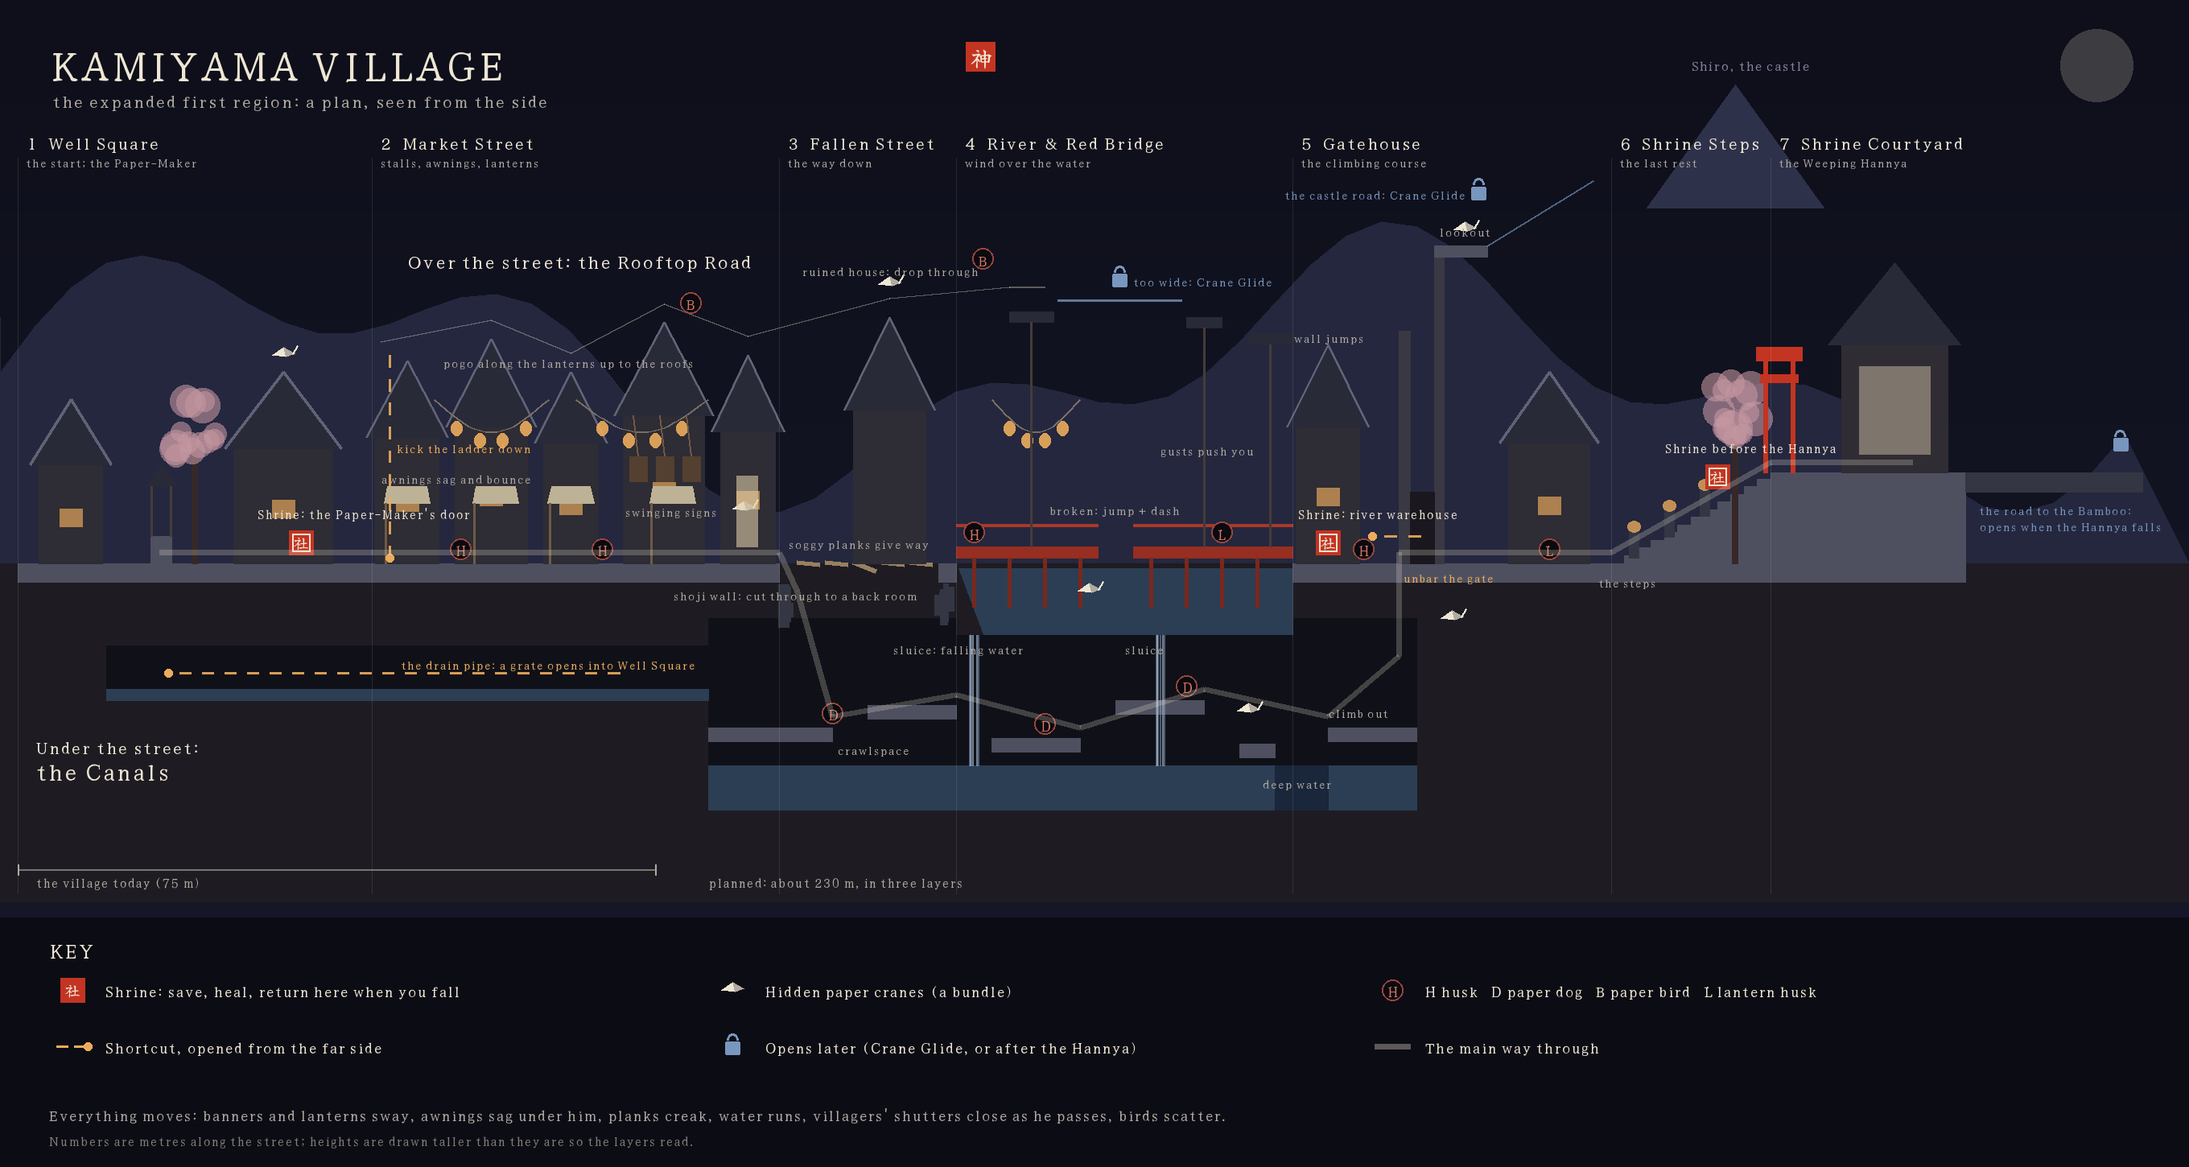
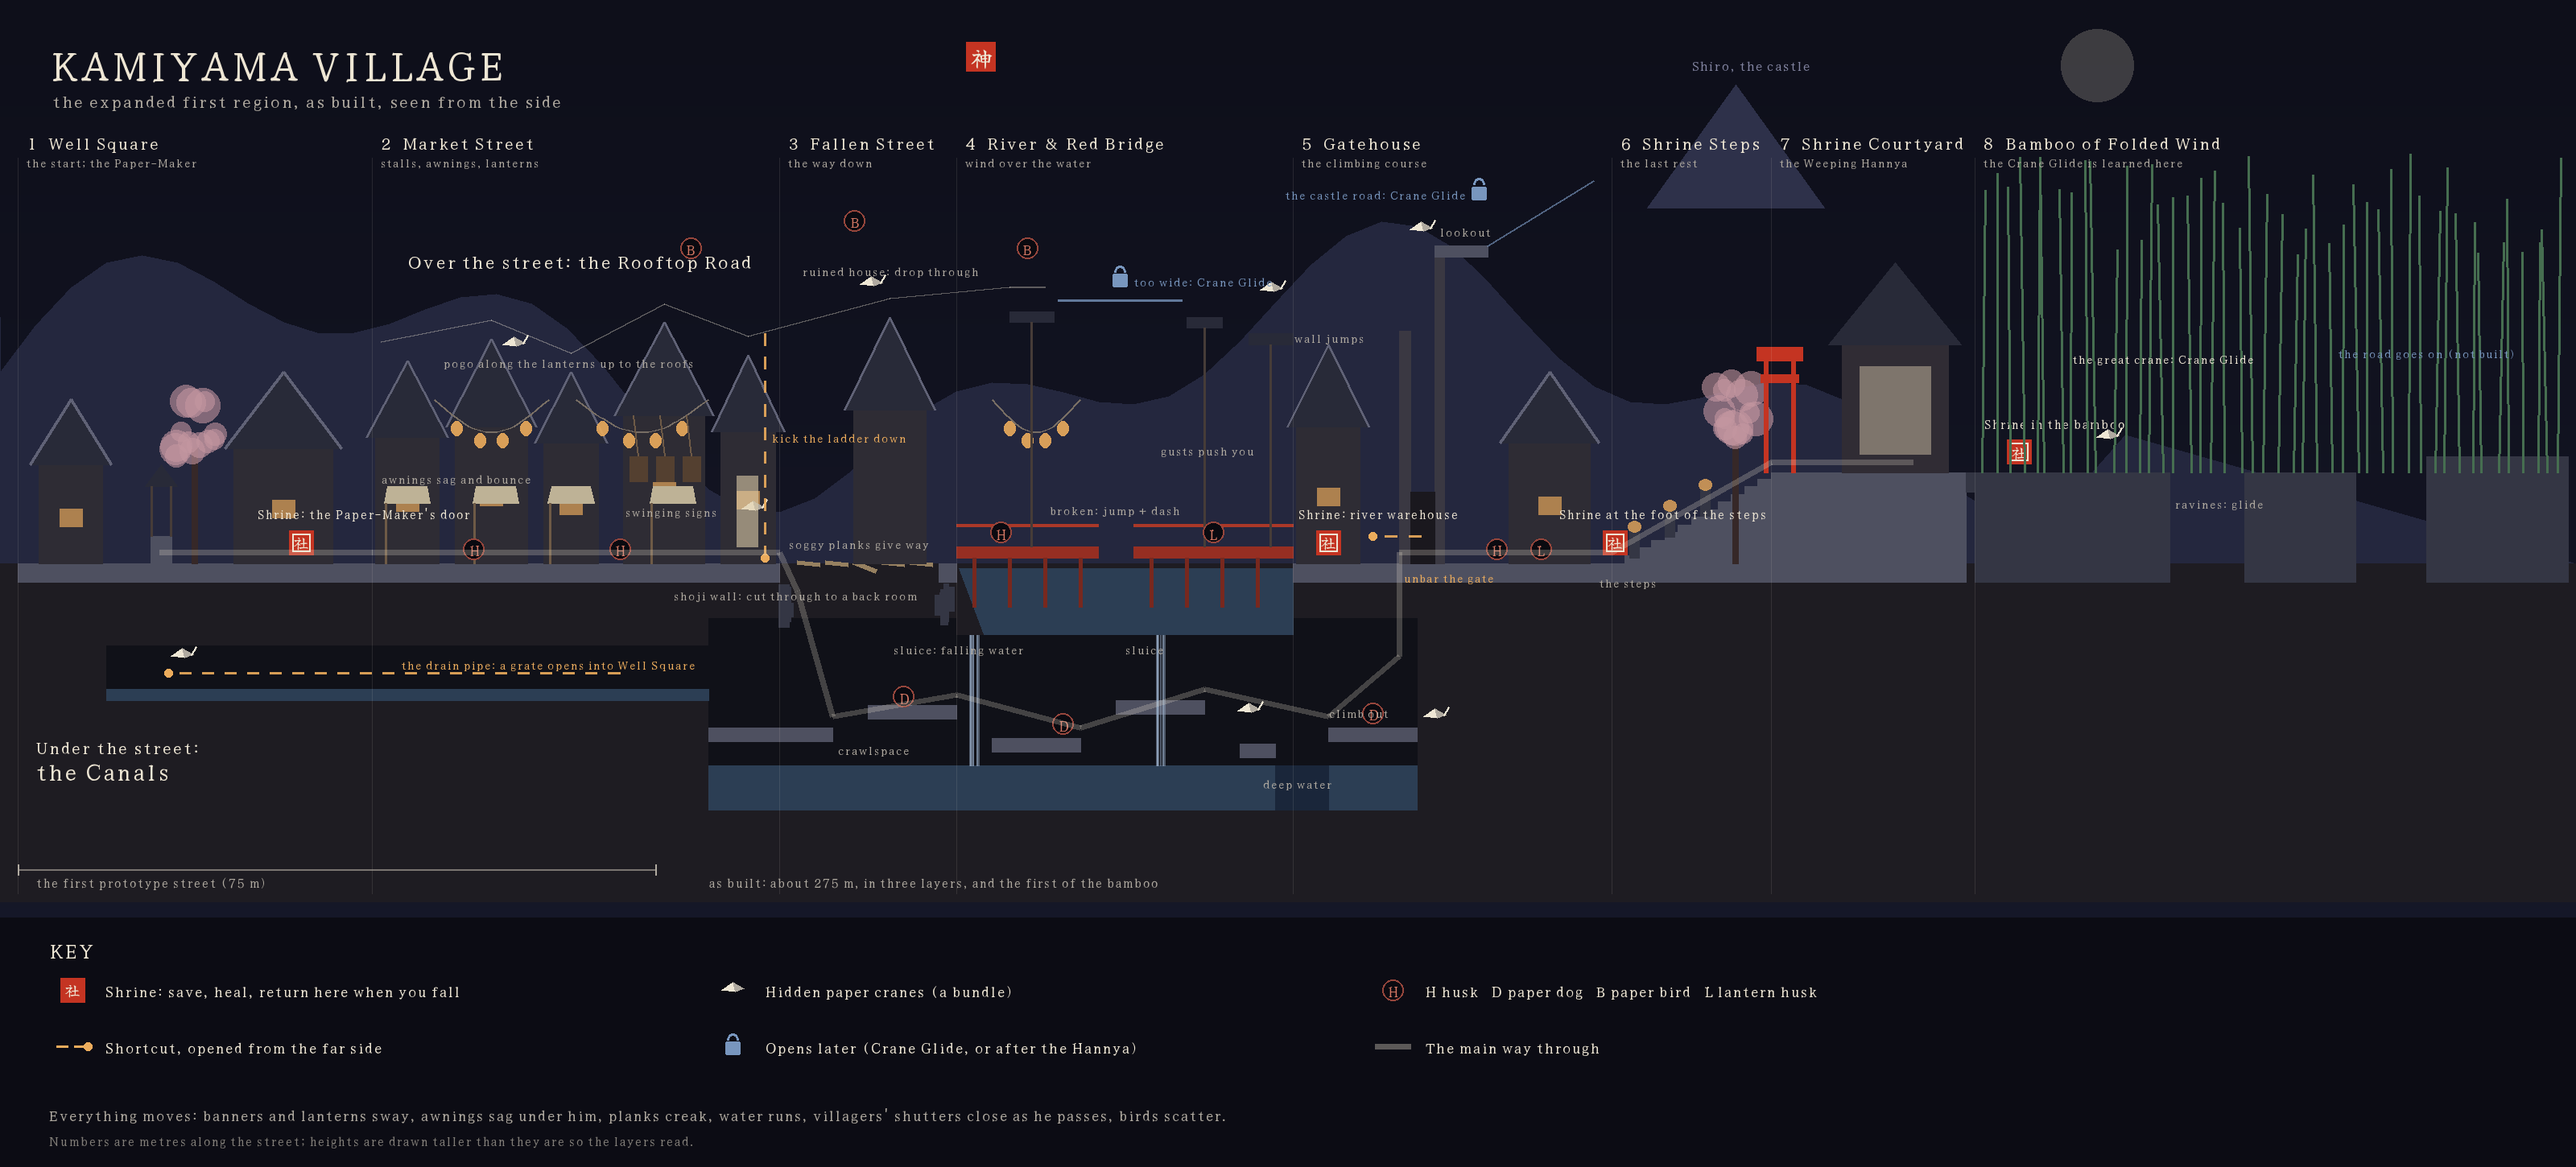
Village map: redrawn as built (shrines, ladder, cranes, enemies, the bamboo)

diff --git a/tools/village_map.py b/tools/village_map.py
@@ -1,4 +1,4 @@
-"""Draws the planned layout of the expanded Kamiyama Village as a side-on
+"""Draws the layout (as built, 2026-11-22) of the expanded Kamiyama Village as a side-on
 cut-away map (docs/village_map.png). A planning picture for Julian: the
 three layers (rooftops, street, canals), the areas, obstacles, enemies,
 shrines, hidden cranes, shortcuts and the paths that open later.
@@ -15,7 +15,7 @@ ROOT = Path(__file__).resolve().parent.parent
 FONT = str(ROOT / "art_source" / "fonts" / "YujiSyuku-Regular.ttf")
 OUT = ROOT / "docs" / "village_map.png"
 
-W, H = 2720, 1450
+W, H = 3200, 1450
 rng = random.Random(4)
 
 # Colours (the game's palette).
@@ -284,17 +284,22 @@ shrine(24, 0, "")
 note(19.0, 0, "Shrine: the Paper-Maker's door", dy=-74, colour=WASHI, size=16)
 shrine(140, 0, "")
 note(136.5, 0, "Shrine: river warehouse", dy=-74, colour=WASHI, size=16)
-shrine(184, 2.4, "")
-note(178, 2.4, "Shrine before the Hannya", dy=-74, colour=WASHI, size=16)
+shrine(172.4, 0, "")
+note(166, 0, "Shrine at the foot of the steps", dy=-74, colour=WASHI, size=16)
+shrine(218, 3.3, "")
+note(214, 3.3, "Shrine in the bamboo", dy=-74, colour=WASHI, size=16)
 
 # Hidden paper cranes (bundles).
-for cx, cy in [(22, 7.6), (74, 2.0), (90.5, 10.2), (113, -1.0), (131, -5.4), (155.5, 12.2), (154, -2.0)]:
+# (As built: the gallery roof, the back room, the chamber under the grate,
+# the burnt house, a canal ledge, the lookout, the canal's east end, and the
+# deck beyond the Crane Glide gap.)
+for cx, cy in [(48, 8.0), (75, 2.0), (10.6, -3.4), (88.4, 10.2), (131, -5.4), (150.5, 12.2), (152, -5.6), (133.6, 10.0)]:
     crane(cx, cy)
 
 # Enemies.
-for ex, ey, k in [(42, 0, "husk"), (58, 0, "husk"), (68, 9.0, "bird"), (84, -6.0, "dog"), (108, -6.4, "dog"),
-                  (124, -5.0, "dog"), (100, 0.6, "husk"), (128, 0.6, "lantern"), (101, 10.6, "bird"), (144, 0, "husk"),
-                  (165, 0, "lantern")]:
+for ex, ey, k in [(43.5, 0, "husk"), (60, 0, "husk"), (68, 11.0, "bird"), (92, -5.4, "dog"), (110, -6.4, "dog"),
+                  (145, -6.0, "dog"), (103, 0.6, "husk"), (127, 0.6, "lantern"), (86.5, 12.0, "bird"), (159, 0, "husk"),
+                  (164, 0, "lantern"), (106, 11.0, "bird")]:
     enemy(ex, ey, k)
 
 # Obstacles and ways round, labelled where they are.
@@ -317,7 +322,7 @@ note(152.5, 11.6, "lookout", dy=-30)
 note(170.5, 0.0, "the steps", dy=12)
 
 # Shortcuts (opened from the far side).
-shortcut(34, 7.6, 34, 0.2, "kick the ladder down")
+shortcut(76.4, 8.4, 76.4, 0.2, "kick the ladder down")
 shortcut(60, -4.0, 9, -4.0, "the drain pipe: a grate opens into Well Square")
 shortcut(150.5, 1.0, 145, 1.0, "unbar the gate", ldy=40)
 
@@ -325,9 +330,23 @@ shortcut(150.5, 1.0, 145, 1.0, "unbar the gate", ldy=40)
 locked(116.5, 10.4, "too wide: Crane Glide")
 locked(157.0, 13.6, "the castle road: Crane Glide", left=True)
 d.line([(X(158), Y(11.6)), (X(170), Y(14.0))], fill=(*LOCKED, 160), width=2)
-locked(229.5, 4.4, "")
-note(213.5, 2.6, "the road to the Bamboo:", dy=10, colour=LOCKED)
+note(213.5, 2.6, "the gate to the Bamboo:", dy=10, colour=LOCKED)
 note(213.5, 2.6, "opens when the Hannya falls", dy=30, colour=LOCKED)
+
+# 8: the Bamboo of Folded Wind (its first stretch), past the courtyard's gate.
+for a, b, h in [(213, 235, 3.3), (243.5, 256, 3.3), (264, 280, 3.9)]:
+    d.rectangle((X(a), Y(h), X(b), Y(-0.7)), fill=STONE_DARK)
+for k in range(46):
+    bx = 214 + k * 1.45 + rng.uniform(-0.4, 0.4)
+    top = rng.uniform(11.0, 15.0)
+    d.line([(X(bx), Y(3.3)), (X(bx + rng.uniform(-0.6, 0.6)), Y(top))], fill=(70, 110, 80), width=3)
+d.text((X(213) + 10, 160), "8  Bamboo of Folded Wind", font=font(22), fill=WASHI)
+d.text((X(213) + 10, 190), "the Crane Glide is learned here", font=font(15), fill=WASHI_DIM)
+d.line([(X(213), 196), (X(213), H - 340)], fill=(*WASHI, 28), width=1)
+crane(228, 4.6)
+note(224, 4.6, "the great crane: Crane Glide", dy=-110, colour=WASHI)
+note(235.5, 3.3, "ravines: glide", dy=26)
+note(254, 3.9, "the road goes on (not built)", dy=-140, colour=LOCKED)
 
 # The Ronin's main route, faint, so the shape of the level reads.
 route = [(8, 0.4), (32, 0.4), (78, 0.4), (80, -1.0), (84, -5.6), (98, -4.8), (112, -6.0), (126, -4.6), (140, -5.6),
@@ -339,12 +358,12 @@ for (a, ha), (b, hb) in zip(route, route[1:]):
 d.line([(X(-8), Y(-11.2)), (X(64), Y(-11.2))], fill=(*WASHI_DIM, 160), width=2)
 d.line([(X(-8), Y(-11.0)), (X(-8), Y(-11.4))], fill=WASHI_DIM, width=2)
 d.line([(X(64), Y(-11.0)), (X(64), Y(-11.4))], fill=WASHI_DIM, width=2)
-d.text((X(-6), Y(-11.3)), "the village today (75 m)", font=font(16), fill=WASHI_DIM)
-d.text((X(70), Y(-11.3)), "planned: about 230 m, in three layers", font=font(16), fill=WASHI_DIM)
+d.text((X(-6), Y(-11.3)), "the first prototype street (75 m)", font=font(16), fill=WASHI_DIM)
+d.text((X(70), Y(-11.3)), "as built: about 275 m, in three layers, and the first of the bamboo", font=font(16), fill=WASHI_DIM)
 
 # Title and legend.
 d.text((60, 40), "KAMIYAMA VILLAGE", font=font(52), fill=WASHI)
-d.text((64, 108), "the expanded first region: a plan, seen from the side", font=font(22), fill=WASHI_DIM)
+d.text((64, 108), "the expanded first region, as built, seen from the side", font=font(22), fill=WASHI_DIM)
 d.rectangle((1200, 52, 1236, 88), fill=VERMILION)
 d.text((1206, 52), "神", font=font(26), fill=WASHI)
 
